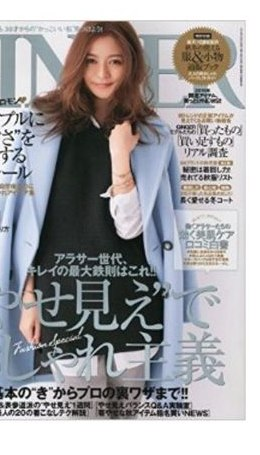
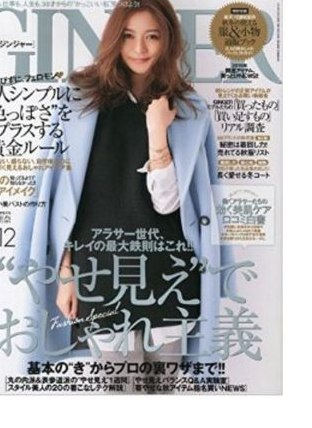
Fix half-cut magazines in As Seen stack: split & match aspect
Issue: cover-05 packed both 'and GIRL' and 'GOSSIPS' into a single
720x475 landscape image. The display slot is 35x48mm portrait, so
object-fit: cover sliced the file roughly down the middle and
showed only half of one cover. cover-09 (GINGER) and cover-11
(Mart) were also too tall for the slot so the magazine masthead
or bottom strap got clipped.

Re-crop the source spreads so every magazine is a self-contained
~3:4 portrait that matches the display slot 1:1:

  cover-02.jpg   Oggi          410x550   1:1.34
  cover-05a.jpg  and GIRL 10月号 355x475   1:1.34  (split: left half of spread_05)
  cover-05b.jpg  GOSSIPS 11月号  350x475   1:1.36  (split: right half of spread_05)
  cover-09.jpg   GINGER 12月号   312x428   1:1.37  (y_top moved past spread caption)
  cover-11.jpg   Mart 4月号      290x428   1:1.48
  (cover-05.jpg deleted — replaced by cover-05a + cover-05b)

press.html
- Stack now holds 5 covers + 1 front spread instead of 4 + 1.
  Each cover slot resized to 30x41mm to keep aspect at 1:1.37,
  positions re-fanned across the 100mm-wide As Seen In area
  (left 0 / 14 / 31 / 48 / 64, rotations -12° / -6° / -1° / 4° /
  10°). Front advert spread (spread_10) shifted to top:41mm so
  the now-taller cover row clears it.
- cache-bust ?v=3 on the 5 cover images since the bytes changed
  in place.

diff --git a/press.html b/press.html
@@ -182,29 +182,31 @@ html, body{
 }
 .poster__as-seen-cover{
   position: absolute;
-  width: 35mm;
-  height: 48mm;
+  width: 30mm;
+  height: 41mm;
   object-fit: cover;
+  object-position: center top;
   background: #fff;
   border: 0.5mm solid rgba(184,146,63,0.45);
-  box-shadow: 0 2mm 6mm rgba(0,0,0,0.65);
+  box-shadow: 0 2mm 5mm rgba(0,0,0,0.65);
 }
 .poster__as-seen-front{
   position: absolute;
-  width: 65mm;
-  height: 38mm;
+  width: 62mm;
+  height: 36mm;
   object-fit: cover;
   background: #fff;
   border: 0.5mm solid var(--gold-bright);
   box-shadow: 0 3mm 9mm rgba(0,0,0,0.75);
 }
-/* 4枚の表紙を扇状に配置 */
-.poster__as-seen-stack > .poster__as-seen-cover:nth-of-type(1){ top:  0mm; left:  0mm; transform: rotate(-10deg); z-index: 1; }
-.poster__as-seen-stack > .poster__as-seen-cover:nth-of-type(2){ top:  5mm; left: 18mm; transform: rotate(-4deg);  z-index: 2; }
-.poster__as-seen-stack > .poster__as-seen-cover:nth-of-type(3){ top:  4mm; left: 40mm; transform: rotate(3deg);   z-index: 3; }
-.poster__as-seen-stack > .poster__as-seen-cover:nth-of-type(4){ top:  0mm; left: 60mm; transform: rotate(8deg);   z-index: 4; }
+/* 5枚の表紙を扇状に配置 */
+.poster__as-seen-stack > .poster__as-seen-cover:nth-of-type(1){ top:  0mm; left:  0mm; transform: rotate(-12deg); z-index: 1; }
+.poster__as-seen-stack > .poster__as-seen-cover:nth-of-type(2){ top:  4mm; left: 14mm; transform: rotate(-6deg);  z-index: 2; }
+.poster__as-seen-stack > .poster__as-seen-cover:nth-of-type(3){ top:  5mm; left: 31mm; transform: rotate(-1deg);  z-index: 3; }
+.poster__as-seen-stack > .poster__as-seen-cover:nth-of-type(4){ top:  4mm; left: 48mm; transform: rotate(4deg);   z-index: 4; }
+.poster__as-seen-stack > .poster__as-seen-cover:nth-of-type(5){ top:  0mm; left: 64mm; transform: rotate(10deg);  z-index: 5; }
 /* 1番前は商品の見える広告ページ */
-.poster__as-seen-stack > .poster__as-seen-front{ top: 38mm; left: 18mm; transform: rotate(-3deg); z-index: 5; }
+.poster__as-seen-stack > .poster__as-seen-front{ top: 41mm; left: 19mm; transform: rotate(-3deg); z-index: 6; }
 
 /* ヘッダー下のディバイダー */
 .poster__divider{
@@ -447,10 +449,11 @@ html, body{
 
       <div class="poster__as-seen">
         <div class="poster__as-seen-stack">
-          <img class="poster__as-seen-cover" src="press-images/magazines/cover-02.jpg?v=2" alt="Oggi 5月号" decoding="sync" loading="eager">
-          <img class="poster__as-seen-cover" src="press-images/magazines/cover-09.jpg?v=2" alt="GINGER 12月号" decoding="sync" loading="eager">
-          <img class="poster__as-seen-cover" src="press-images/magazines/cover-11.jpg?v=2" alt="Mart 4月号" decoding="sync" loading="eager">
-          <img class="poster__as-seen-cover" src="press-images/magazines/cover-05.jpg?v=2" alt="and GIRL / GOSSIPS" decoding="sync" loading="eager">
+          <img class="poster__as-seen-cover" src="press-images/magazines/cover-02.jpg?v=3" alt="Oggi 5月号" decoding="sync" loading="eager">
+          <img class="poster__as-seen-cover" src="press-images/magazines/cover-05a.jpg?v=3" alt="and GIRL 10月号" decoding="sync" loading="eager">
+          <img class="poster__as-seen-cover" src="press-images/magazines/cover-09.jpg?v=3" alt="GINGER 12月号" decoding="sync" loading="eager">
+          <img class="poster__as-seen-cover" src="press-images/magazines/cover-05b.jpg?v=3" alt="GOSSIPS 11月号" decoding="sync" loading="eager">
+          <img class="poster__as-seen-cover" src="press-images/magazines/cover-11.jpg?v=3" alt="Mart 4月号" decoding="sync" loading="eager">
           <img class="poster__as-seen-front" src="press-images/magazines/spread_10.jpg?v=2" alt="and GIRL 11月号 - ダイヤピアス掲載" decoding="sync" loading="eager">
         </div>
       </div>
